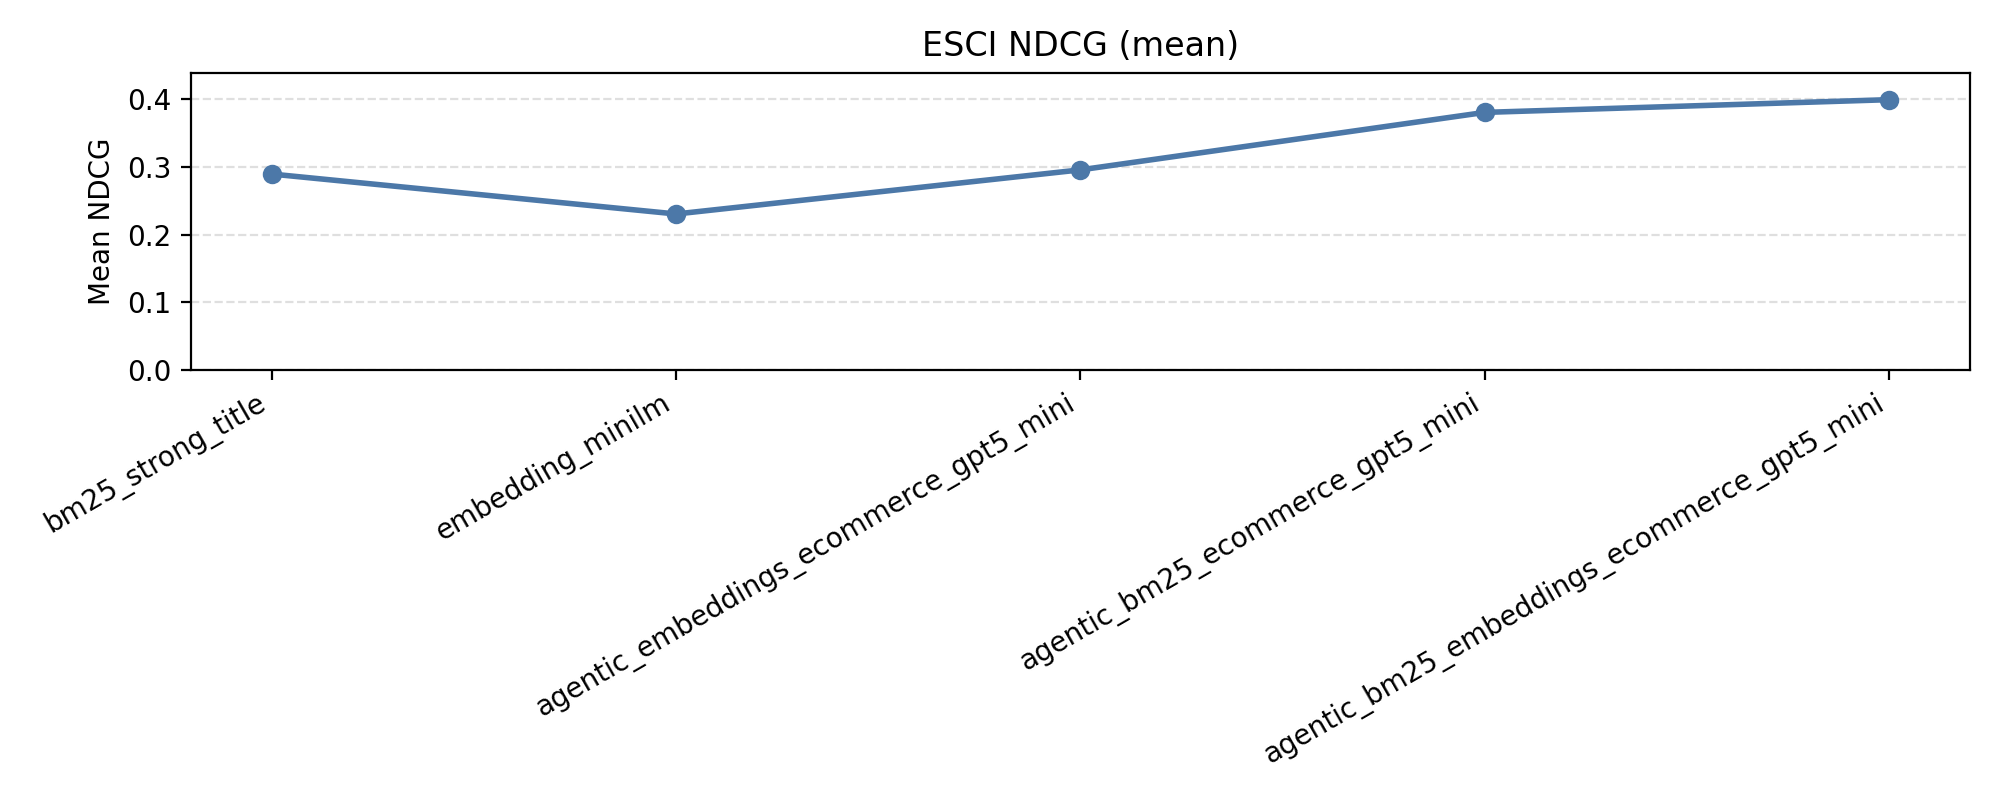
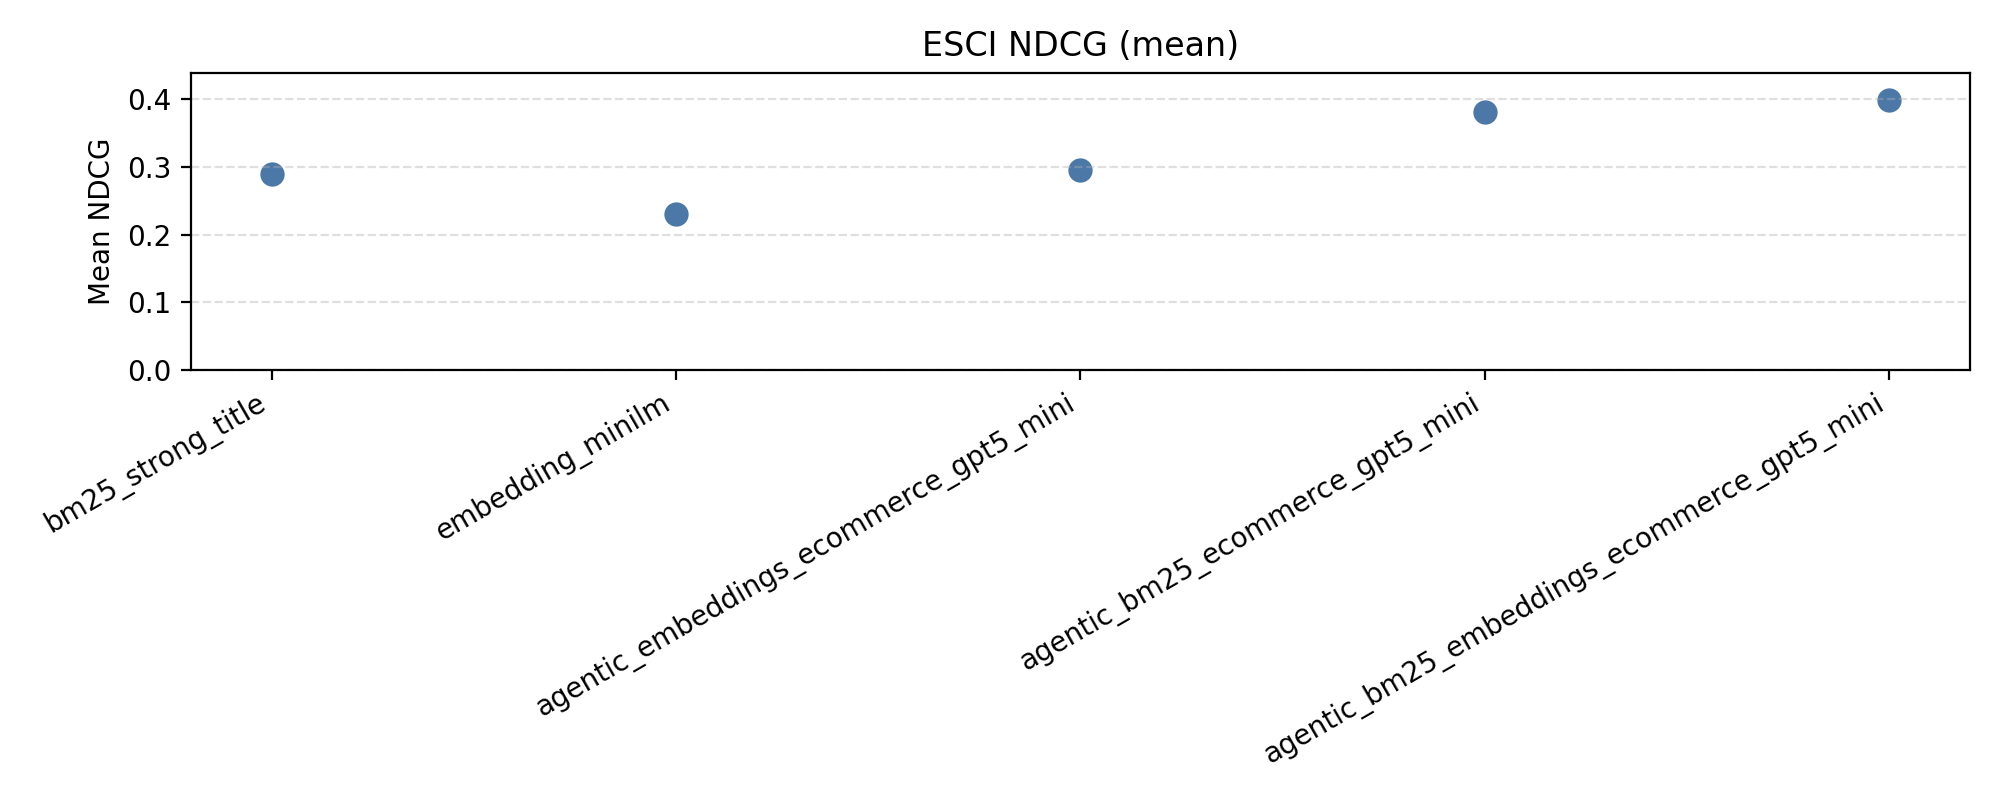
Switch NDCG plots to scatter
Render ESCI and WANDS plots as scatter charts.

diff --git a/scripts/plot_results.py b/scripts/plot_results.py
@@ -50,7 +50,7 @@ def _plot_dataset(rows: list[dict[str, str]], dataset: str, output_path: Path) -
     means = [row["mean"] for row in ordered]
 
     fig, ax = plt.subplots(figsize=(10, 4))
-    ax.plot(range(len(strategies)), means, color="#4C78A8", marker="o", linewidth=2)
+    ax.scatter(range(len(strategies)), means, color="#4C78A8", s=60)
     ax.set_title(f"{dataset.upper()} NDCG (mean)")
     ax.set_ylabel("Mean NDCG")
     ax.set_xticks(range(len(strategies)))
